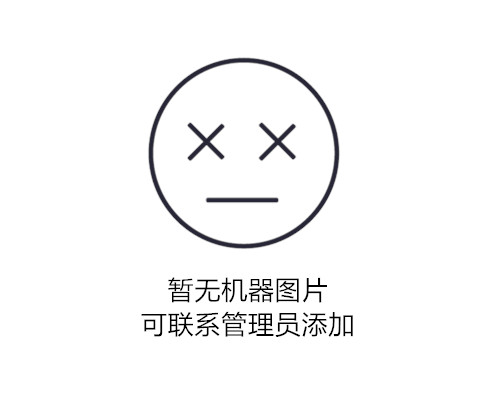
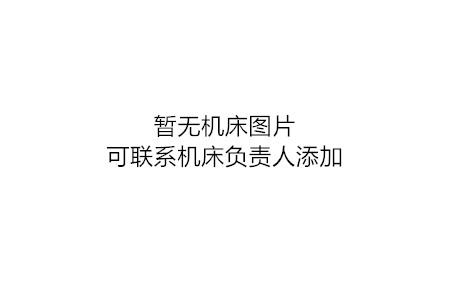
删除无用图片，修改机床详情页面，加入机床报警入口

Changed region(s): [[0.2178, 0.12, 0.7778, 0.63], [0.28, 0.69, 0.7156, 0.84], [0.4356, 0.3, 0.4667, 0.33]]

diff --git a/machine/machine_detail.html b/machine/machine_detail.html
@@ -114,17 +114,12 @@
                 </li>
             </ul>
         </div>
-        <div class="content-block-title">机床操作</div>
+        <div class="content-block-title">机床故障</div>
         <div class="list-block">
             <ul>
-                <li class="item-content item-link" id="menu-new-task">
+                <li class="item-content item-link" id="menu-machine-alert">
                     <div class="item-inner">
-                        <div class="item-title">新建任务</div>
-                    </div>
-                </li>
-                <li class="item-content item-link">
-                    <div class="item-inner">
-                        <div class="item-title">故障拍照</div>
+                        <div class="item-title">查看机床故障</div>
                     </div>
                 </li>
             </ul>
@@ -193,8 +188,8 @@
     //添加点击处理
     function addClickOperation() {
         //新建任务
-        $('#menu-new-task').click(function() {
-            window.location = 'http://192.168.1.170:8088/h5Office/machine/machine_task.html';
+        $('#menu-machine-alert').click(function() {
+            window.location = 'machine_alert_records.html?id=' + machineId;
         });
     }
 

diff --git a/machine/machine_alert_records.html b/machine/machine_alert_records.html
@@ -42,12 +42,6 @@
     var machineId = getUrlParam('id');
     getMachineAlertRecords(machineId);
 
-    try {
-        window.js_interface.useGoBack(true);
-    }catch(e) {
-
-    }
-
     //获取报警记录
     function getMachineAlertRecords(machineId) {
         $.ajax({
@@ -57,11 +51,14 @@
                 'Authorization': 'Bearer ' + getToken()
             },
             success: function(response) {
-                console.log('get machine alert records: ' + formatJSON(JSON.stringify(response)));
+                // console.log('get machine alert records: ' + formatJSON(JSON.stringify(response)));
                 if (response.status == 10001) {
                     if(response.data.total > 0) {
                         var list = response.data.list;
+                        $('div.content-block-title').html('机床报警列表（' + response.data.total + '条）');
                         showAlertList(list);
+                    }else {
+                        $('div.content-block-title').html('机床报警列表（0条）');
                     }
                 }
             },
